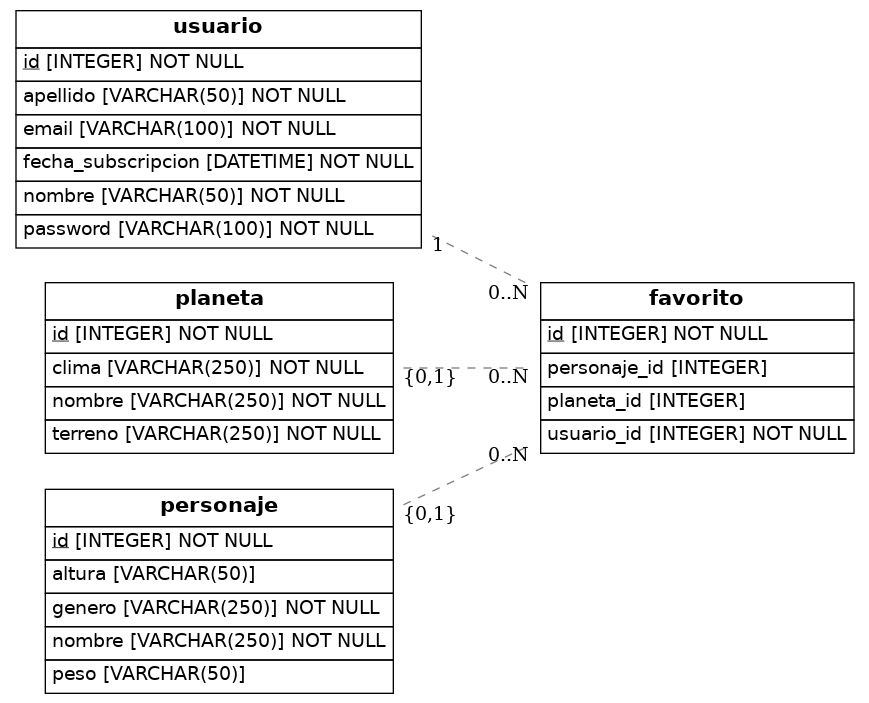
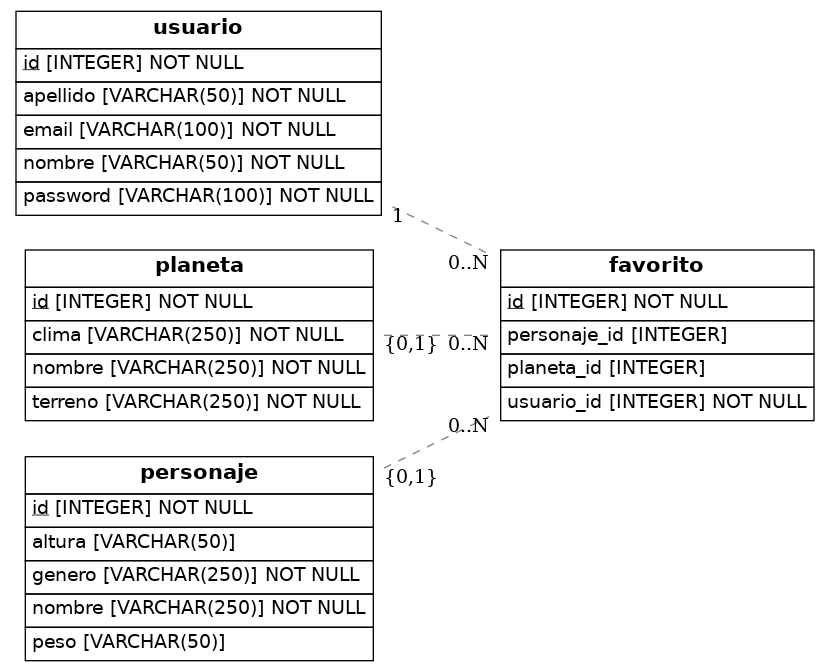
done

Changed region(s): [[0.0, 0.0, 0.9952, 1.0]]

diff --git a/src/models.py b/src/models.py
@@ -1,17 +1,17 @@
 import os
 import sys
-from sqlalchemy import Column, ForeignKey, Integer, String, DateTime, Table
+from sqlalchemy import Column, ForeignKey, Integer, String, Table
 from sqlalchemy.orm import relationship, declarative_base
 from sqlalchemy import create_engine
 from eralchemy2 import render_er
 
 Base = declarative_base()
 
-# Tabla intermedia para la relación muchos-a-muchos entre Usuario y Favoritos
-# Favoritos puede ser tanto planetas como personajes
+
 from sqlalchemy import Column, Integer, String, DateTime, ForeignKey, func
 from sqlalchemy.orm import relationship
 
+# Todos apuntan a...
 class Favorito(Base):
     __tablename__ = 'favorito'
     id = Column(Integer, primary_key=True)
@@ -19,11 +19,8 @@ class Favorito(Base):
     planeta_id = Column(Integer, ForeignKey('planeta.id'), nullable=True)
     personaje_id = Column(Integer, ForeignKey('personaje.id'), nullable=True)
 
-    # Relación con la tabla Usuario
     usuario = relationship('Usuario', back_populates='favoritos')
-    # Relación con la tabla Planeta
     planeta = relationship('Planeta', back_populates='favoritos')
-    # Relación con la tabla Personaje
     personaje = relationship('Personaje', back_populates='favoritos')
 
 # Tabla Usuario
@@ -34,7 +31,6 @@ class Usuario(Base):
     password = Column(String(100), nullable=False)
     nombre = Column(String(50), nullable=False)
     apellido = Column(String(50), nullable=False)
-    fecha_subscripcion = Column(DateTime, nullable=False, default=func.now()) #Default para DateTime
     # Relación con la tabla Favorito
     favoritos = relationship('Favorito', back_populates='usuario')
 
@@ -46,7 +42,7 @@ class Planeta(Base):
     clima = Column(String(250), nullable=False)
     terreno = Column(String(250), nullable=False)
 
-    # Relación inversa con la tabla Favorito
+    # "Tab" con la tabla Favorito
     favoritos = relationship('Favorito', back_populates='planeta')
 
 # Tabla Personaje
@@ -58,9 +54,8 @@ class Personaje(Base):
     altura = Column(String(50), nullable=True)
     peso = Column(String(50), nullable=True)
 
-    # Relación inversa con la tabla Favorito
+    # "Tab" con la tabla Favorito
     favoritos = relationship('Favorito', back_populates='personaje')
 
 
-# Render del diagrama
 render_er(Base, 'diagram.png')
